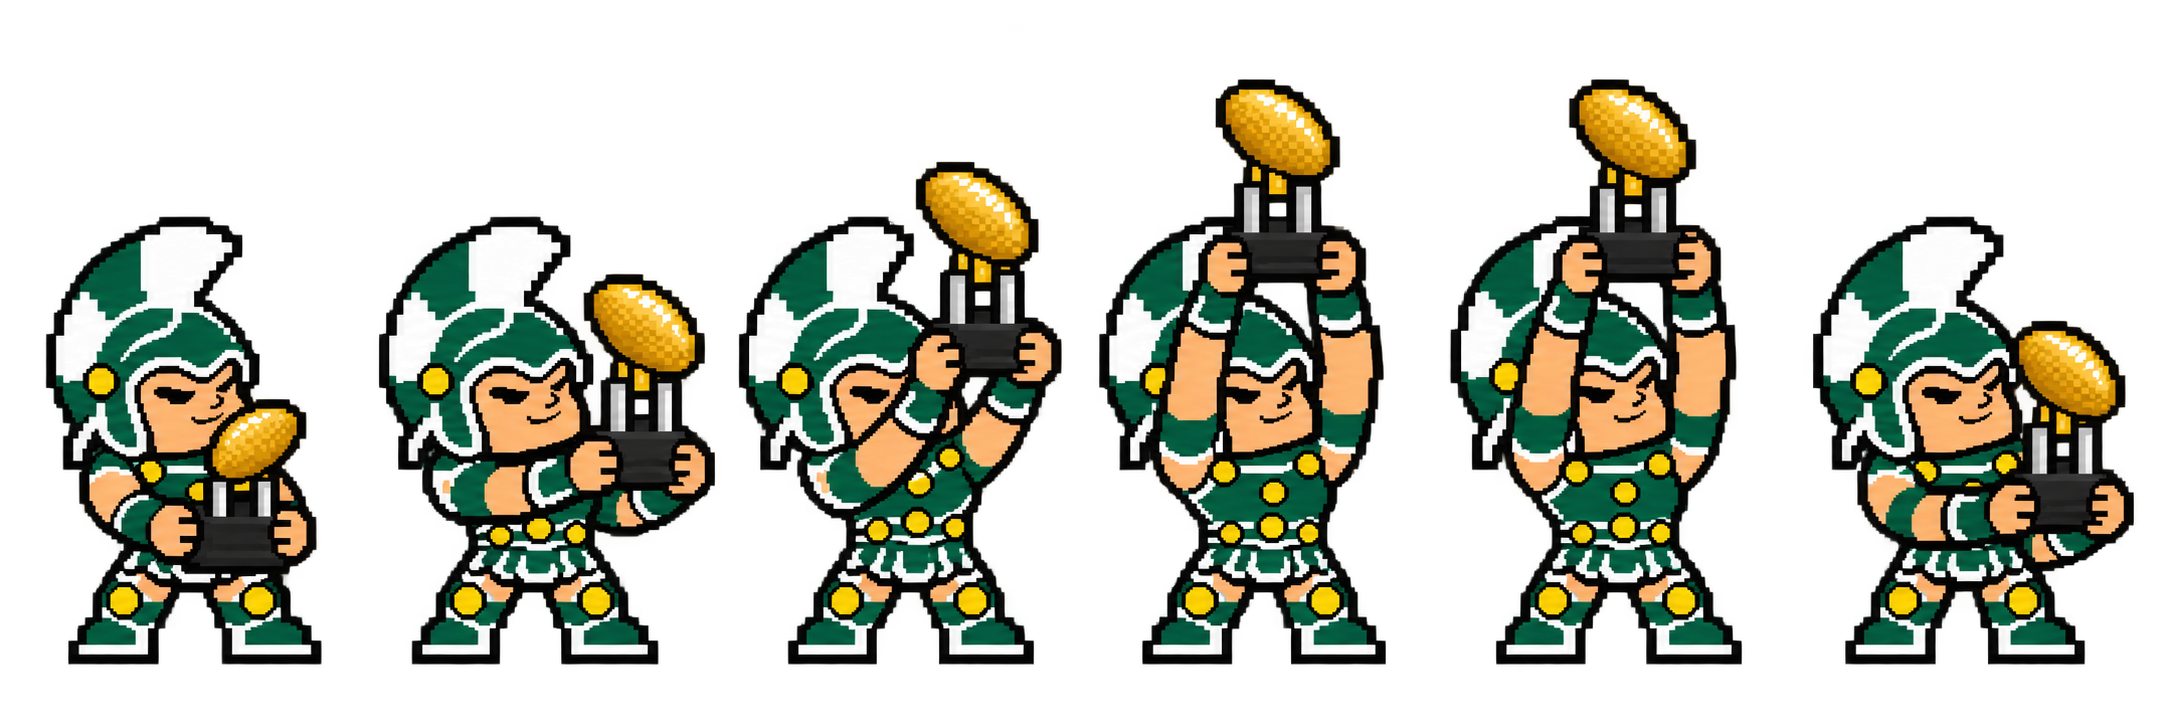
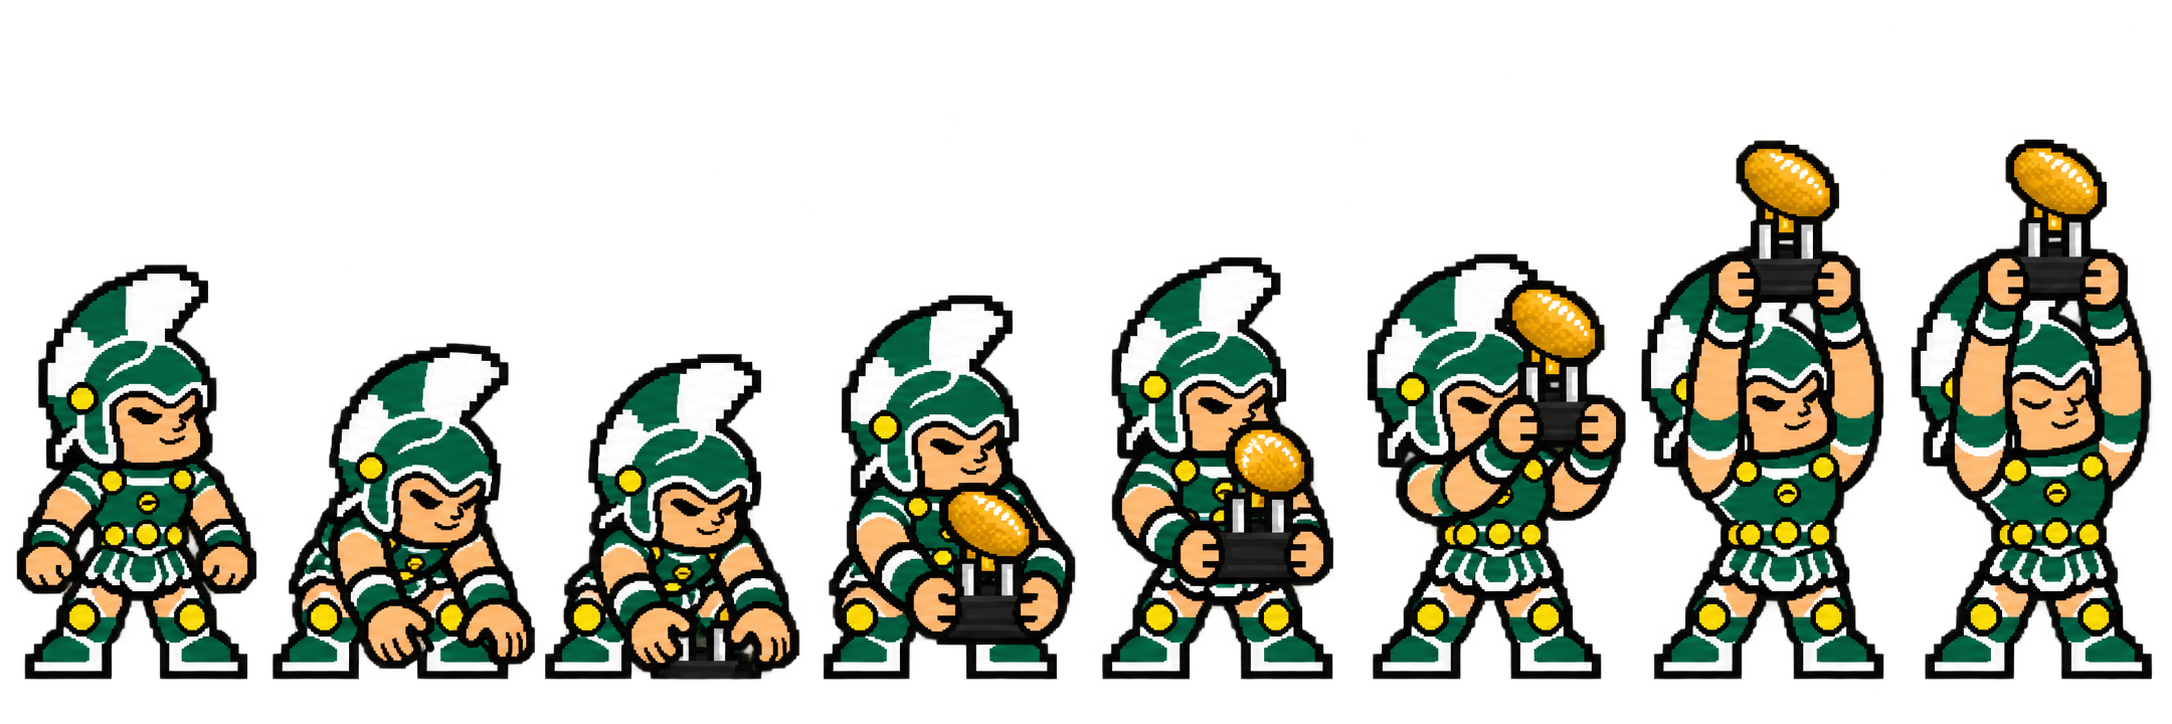
Add files via upload

diff --git a/assets/sparty.js b/assets/sparty.js
@@ -1,44 +1,61 @@
-/* Reuses Ask Sparty's idle and wave frames without changing its question flow. */
+/* Shared, opt-in Sparty controls. Trophy frames use one scale from idle to return. */
 (() => {
   'use strict';
   const reduceMotion = window.matchMedia('(prefers-reduced-motion: reduce)');
   function mount(root = document) {
-  for (const button of root.querySelectorAll('.sparty-peek')) {
-    const sprite = button.querySelector('.sparty-peek-sprite');
-    if (!sprite || button.dataset.spartyMounted) continue;
-    button.dataset.spartyMounted = 'true';
-    let animation = 0, reset = 0, frame = 0, waving = false, visible = false;
-    const champion = button.classList.contains('sparty-champion');
-    const draw = () => { sprite.style.backgroundPosition = champion && waving ? `-${frame * 56}px 0` : `-${frame * 96}px -${waving ? 3 * 104 : 0}px`; };
-    const stop = () => { clearInterval(animation); animation = 0; };
-    const idle = () => { clearTimeout(reset); reset = 0; waving = false; frame = 0; button.classList.remove('is-trophy'); draw(); restart(); };
-    function restart() {
-      stop();
-      if (document.hidden || !visible || reduceMotion.matches) return;
-      animation = setInterval(() => {
-        frame = (frame + 1) % (waving ? (champion ? 6 : 4) : 7);
-        draw();
-      }, 240);
-    }
-    button.addEventListener('click', () => {
-      if (reduceMotion.matches && !champion) return;
-      clearTimeout(reset);
-      waving = true; frame = reduceMotion.matches ? 3 : 0;
-      if (champion) button.classList.add('is-trophy');
-      draw(); restart();
-      reset = setTimeout(idle, 1900);
-    });
-    document.addEventListener('visibilitychange', restart);
-    reduceMotion.addEventListener('change', () => { if (reduceMotion.matches) idle(); else restart(); });
-    if ('IntersectionObserver' in window) {
-      const observer = new IntersectionObserver(entries => {
-        visible = entries[0].isIntersecting;
-        restart();
+    for (const button of root.querySelectorAll('.sparty-peek')) {
+      const sprite = button.querySelector('.sparty-peek-sprite');
+      if (!sprite || button.dataset.spartyMounted) continue;
+      button.dataset.spartyMounted = 'true';
+      const champion = button.classList.contains('sparty-champion');
+      let interval = 0, timeout = 0, frame = 0, active = false, visible = false;
+      const draw = () => {
+        sprite.style.backgroundPosition = champion
+          ? `-${frame * 56}px 0`
+          : `-${frame * 96}px -${active ? 3 * 104 : 0}px`;
+      };
+      const stop = () => { clearInterval(interval); clearTimeout(timeout); interval = timeout = 0; };
+      const idle = () => { stop(); frame = 0; active = false; draw(); restart(); };
+      function restart() {
+        clearInterval(interval); interval = 0;
+        if (champion || document.hidden || !visible || reduceMotion.matches || !button.isConnected) return;
+        interval = setInterval(() => {
+          frame = (frame + 1) % (active ? 4 : 7);
+          draw();
+        }, 240);
+      }
+      function trophy() {
+        if (active) return;
+        active = true; frame = 0; draw();
+        if (reduceMotion.matches) {
+          frame = 6; draw(); timeout = setTimeout(idle, 2100);
+          return;
+        }
+        let step = 1;
+        function advance() {
+          if (document.hidden || !button.isConnected) { idle(); return; }
+          frame = step <= 7 ? step : step <= 13 ? (step % 2 ? 7 : 6) : 20 - step;
+          draw();
+          if (step >= 20) { timeout = setTimeout(idle, 180); return; }
+          const delay = step < 7 ? 165 : step < 13 ? 350 : 180;
+          step++;
+          timeout = setTimeout(advance, delay);
+        }
+        timeout = setTimeout(advance, 150);
+      }
+      button.addEventListener('click', () => {
+        if (champion) { trophy(); return; }
+        if (reduceMotion.matches) return;
+        idle(); active = true; draw(); restart();
+        timeout = setTimeout(idle, 1900);
       });
-      observer.observe(button);
-    } else { visible = true; restart(); }
-    draw();
-  }
+      document.addEventListener('visibilitychange', () => { if (document.hidden && active) idle(); else restart(); });
+      reduceMotion.addEventListener('change', () => { if (reduceMotion.matches) idle(); else restart(); });
+      if ('IntersectionObserver' in window) {
+        new IntersectionObserver(entries => { visible = entries[0].isIntersecting; restart(); }).observe(button);
+      } else { visible = true; restart(); }
+      draw();
+    }
   }
   window.SpartyMascot = {mount};
   mount();

diff --git a/assets/sparty.css b/assets/sparty.css
@@ -12,11 +12,7 @@
 @media(max-width:850px){.page-tiles>.sparty-peek{right:10px}}
 @media(max-width:700px){.record-intro{margin-top:39px}.record-intro .sparty-peek{right:10px}}
 
-/* Champion badge lives inside the existing honors card and leaves room for long names. */
-.honors-card{position:relative;padding-right:96px;min-height:122px}
-.honors-card .sparty-champion{top:30px;right:5px;width:80px;height:86px;z-index:1}
-.honors-card .sparty-champion .sparty-peek-sprite{transform:scale(.8)}
-
-/* Six equal trophy frames, 362 x 724 source pixels per cell. */
-.honors-card .sparty-champion.is-trophy{top:4px;right:17px;width:56px;height:112px}
-.honors-card .sparty-champion.is-trophy .sparty-peek-sprite{width:56px;height:112px;transform:none;background-image:url("sparty-trophy-raise.png");background-size:336px 112px}
+/* Eight equal frames in the trophy sheet. Idle and lifting share one scale. */
+.honors-card{position:relative;padding-right:78px;min-height:130px}
+.honors-card .sparty-champion{top:2px;right:11px;width:56px;height:122px;z-index:1}
+.honors-card .sparty-champion .sparty-peek-sprite{width:56px;height:122px;transform:none;background:url("sparty-trophy-raise.png") 0 0 / 448px 122px no-repeat}
